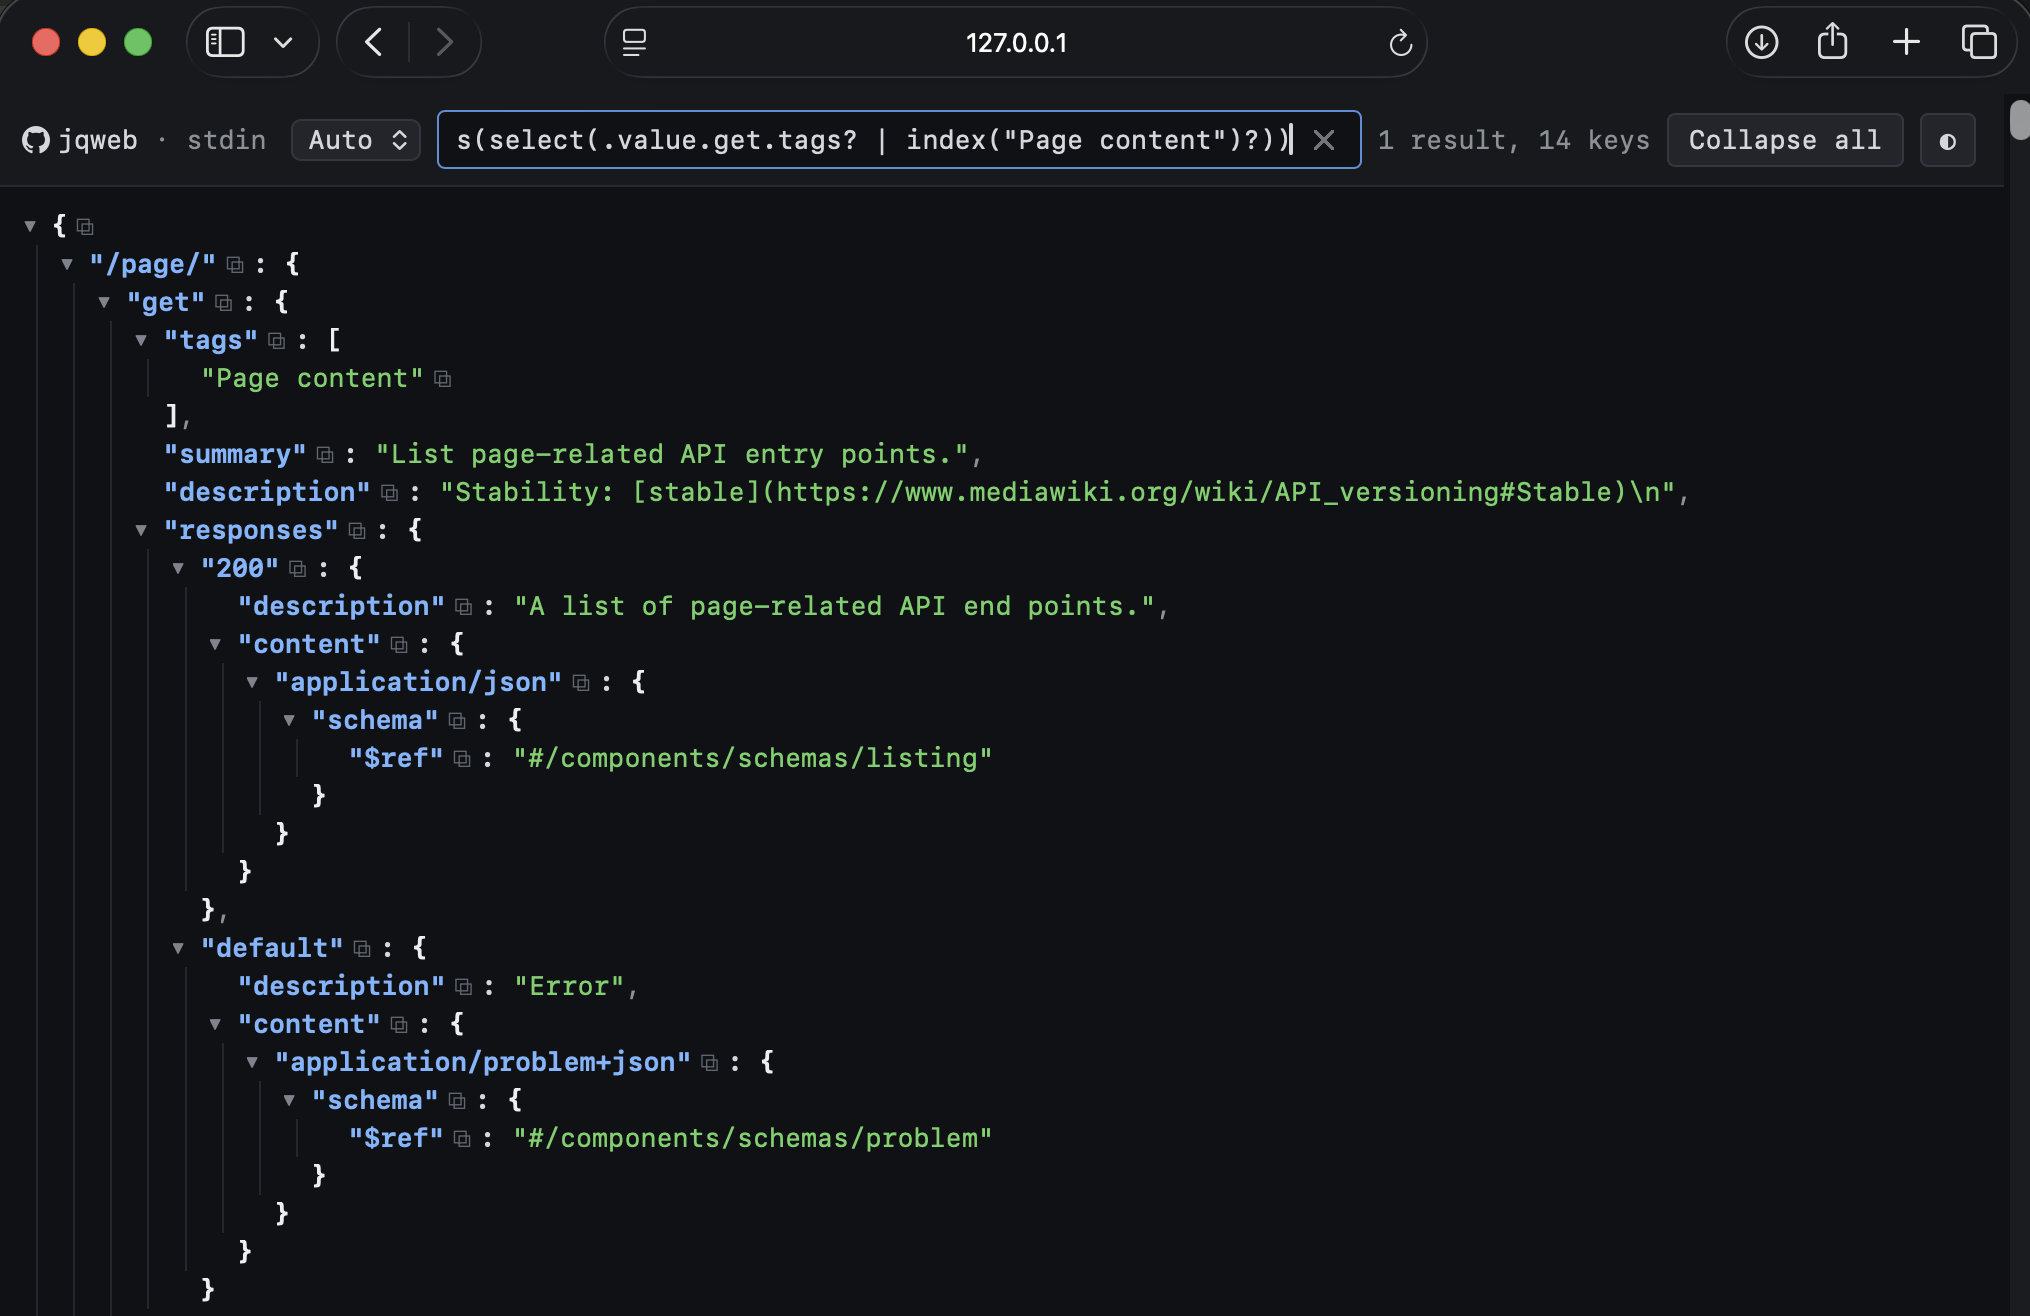
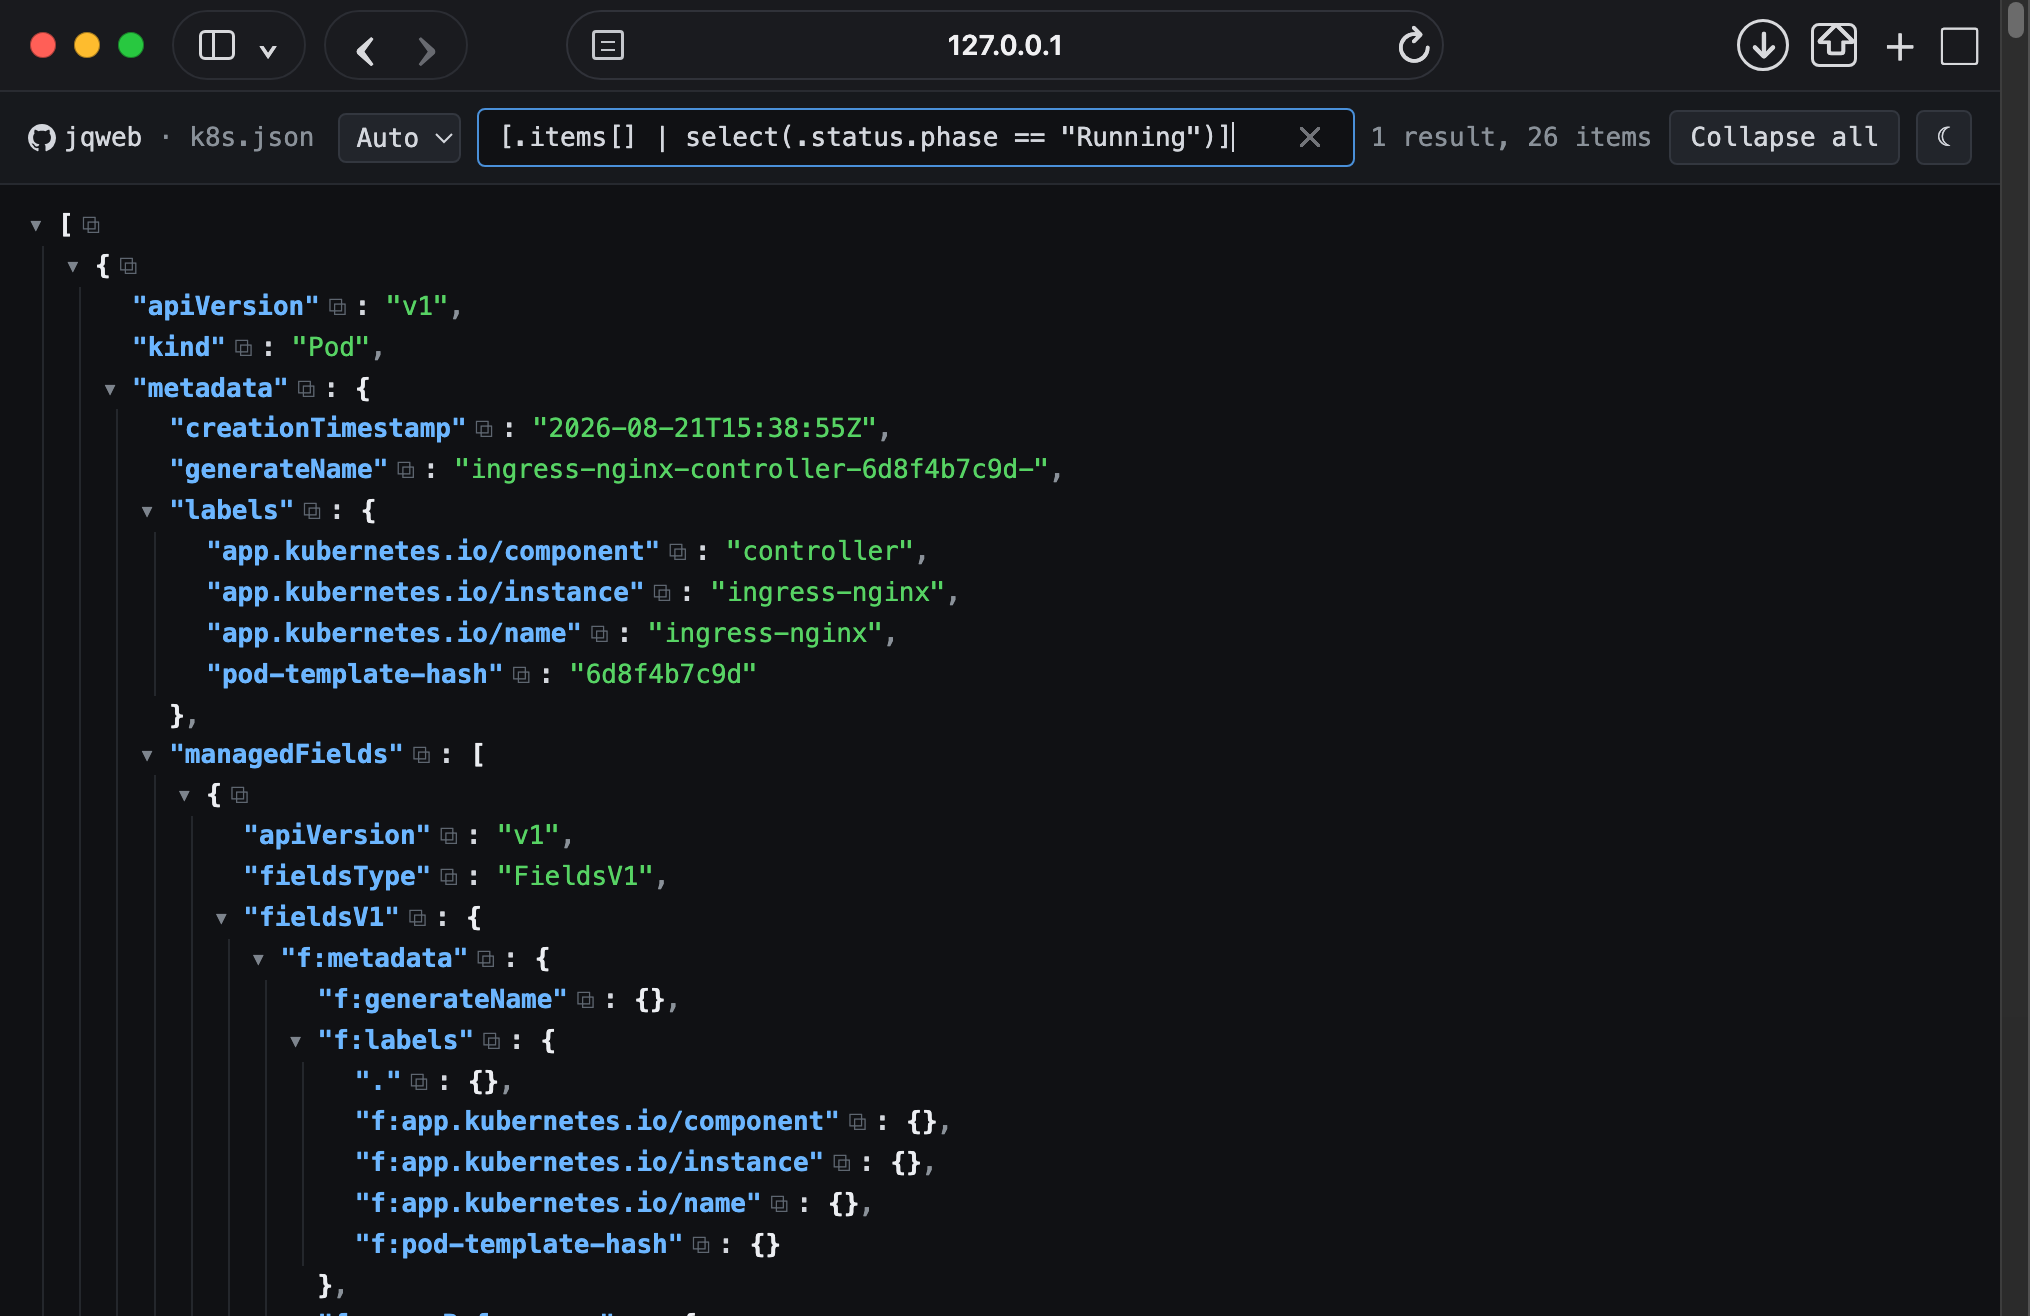
Automate the README screenshot

diff --git a/web/browser-test/capture-demo.js b/web/browser-test/capture-demo.js
@@ -1,0 +1,200 @@
+/* Builds a deterministic README screenshot from the committed example.
+
+     node web/browser-test/capture-demo.js
+     node web/browser-test/capture-demo.js /tmp/demo.png
+
+   The browser chrome is part of the page being captured. Headless browsers do
+   not include their own window chrome, and drawing this small frame keeps its
+   layout independent of local browser configuration. */
+
+'use strict';
+
+const { execFileSync, spawn } = require('node:child_process');
+const fs = require('node:fs');
+const os = require('node:os');
+const path = require('node:path');
+const { pathToFileURL } = require('node:url');
+
+const here = __dirname;
+const repo = path.resolve(here, '..', '..');
+const output = path.resolve(process.argv[2] || path.join(repo, 'demo.png'));
+const work = fs.mkdtempSync(path.join(os.tmpdir(), 'jqweb-demo-'));
+
+function findChrome() {
+  const named = process.env.CHROME || process.env.CHROME_PATH;
+  if (named) return named;
+  const candidates = process.platform === 'darwin'
+    ? ['/Applications/Google Chrome.app/Contents/MacOS/Google Chrome',
+       '/Applications/Chromium.app/Contents/MacOS/Chromium',
+       '/Applications/Google Chrome Canary.app/Contents/MacOS/Google Chrome Canary']
+    : ['/usr/bin/google-chrome', '/usr/bin/google-chrome-stable',
+       '/usr/bin/chromium', '/usr/bin/chromium-browser', '/snap/bin/chromium'];
+  const found = candidates.find((candidate) => fs.existsSync(candidate));
+  if (found) return found;
+  throw new Error('no Chrome found; set $CHROME to one');
+}
+
+function completePNG(file) {
+  try {
+    const size = fs.statSync(file).size;
+    if (size < 12) return false;
+    const fd = fs.openSync(file, 'r');
+    const tail = Buffer.alloc(12);
+    fs.readSync(fd, tail, 0, tail.length, size - tail.length);
+    fs.closeSync(fd);
+    return tail.toString('hex') === '0000000049454e44ae426082';
+  } catch (e) {
+    return false;
+  }
+}
+
+function capture(chrome, args) {
+  return new Promise((resolve, reject) => {
+    let done = false, complaints = '';
+    const child = spawn(chrome, args, { stdio: ['ignore', 'ignore', 'pipe'] });
+    child.stderr.on('data', (chunk) => { complaints += chunk; });
+
+    const finish = (err) => {
+      if (done) return;
+      done = true;
+      clearInterval(poll);
+      clearTimeout(timer);
+      child.kill('SIGKILL');
+      if (err) reject(err);
+      else resolve();
+    };
+
+    const poll = setInterval(() => { if (completePNG(output)) finish(null); }, 50);
+    const timer = setTimeout(() => finish(new Error(
+      'no screenshot within 45s' + (complaints ? '\n' + complaints.trim() : ''))), 45000);
+
+    child.on('error', finish);
+    child.on('exit', () => setTimeout(() => {
+      if (!completePNG(output)) finish(new Error('Chrome exited without a complete screenshot'));
+      else finish(null);
+    }, 50));
+  });
+}
+
+const frame = `
+<div class="demo-browser-bar" aria-hidden="true">
+  <div class="demo-browser-left">
+    <span class="demo-lights"><i></i><i></i><i></i></span>
+    <span class="demo-control demo-sidebar"><i></i><b>⌄</b></span>
+    <span class="demo-control demo-nav"><b>‹</b><b class="off">›</b></span>
+  </div>
+  <div class="demo-address">
+    <span class="demo-page"><i></i><i></i></span>
+    <strong>127.0.0.1</strong>
+    <b class="demo-reload">↻</b>
+  </div>
+  <div class="demo-browser-right">
+    <span class="demo-round">↓</span>
+    <span class="demo-share">⇧</span>
+    <span class="demo-plus">＋</span>
+    <span class="demo-tabs">▢</span>
+  </div>
+</div>`;
+
+const frameStyle = `
+<style>
+.demo-browser-bar {
+  --demo-bar-bg: #191a1e; --demo-bar-field: #1a1b1f; --demo-bar-rule: #292b31;
+  --demo-bar-control: #2b2d33; --demo-bar-address: #303239; --demo-bar-fg: #d8d9dc;
+  --demo-bar-strong: #f0f0f2; --demo-bar-off: #686a70;
+  --demo-bar-light: #c5c7cc; --demo-stop: #ff5f57; --demo-wait: #febc2e;
+  --demo-go: #28c840; --demo-shadow: rgba(0,0,0,.35);
+  height: 46px; display: grid; grid-template-columns: 248px minmax(300px, 1fr) 248px;
+  align-items: center; gap: 20px; padding: 0 10px 0 15px; overflow: hidden;
+  color: var(--demo-bar-fg); background: var(--demo-bar-bg); border-bottom: 1px solid var(--demo-bar-rule);
+  font: 15px/1 -apple-system, BlinkMacSystemFont, "Segoe UI", sans-serif;
+}
+.demo-browser-left, .demo-browser-right { display: flex; align-items: center; gap: 9px; }
+.demo-browser-right { justify-content: flex-end; font-size: 22px; }
+.demo-lights { display: flex; gap: 9px; margin-right: 5px; }
+.demo-lights i { width: 13px; height: 13px; border-radius: 50%; background: var(--demo-stop); box-shadow: inset 0 0 0 .5px var(--demo-shadow); }
+.demo-lights i:nth-child(2) { background: var(--demo-wait); }
+.demo-lights i:nth-child(3) { background: var(--demo-go); }
+.demo-control { height: 35px; display: flex; align-items: center; justify-content: center; border: 1px solid var(--demo-bar-control); border-radius: 18px; background: var(--demo-bar-field); }
+.demo-sidebar { width: 67px; gap: 11px; }
+.demo-sidebar i { width: 18px; height: 15px; border: 1.7px solid currentColor; border-radius: 3px; position: relative; }
+.demo-sidebar i::before { content: ""; position: absolute; top: 0; bottom: 0; left: 5px; border-left: 1.5px solid currentColor; }
+.demo-sidebar b { font-size: 18px; font-weight: 500; transform: translateY(-2px); }
+.demo-nav { width: 72px; gap: 16px; }
+.demo-nav b { font: 35px/.5 Georgia, serif; font-weight: 400; }
+.demo-nav .off { color: var(--demo-bar-off); }
+.demo-address { height: 35px; min-width: 0; display: grid; grid-template-columns: 28px 1fr 28px; align-items: center; border: 1px solid var(--demo-bar-address); border-radius: 18px; background: var(--demo-bar-field); text-align: center; }
+.demo-address strong { font-weight: 600; font-size: 14px; color: var(--demo-bar-strong); }
+.demo-page { width: 16px; height: 15px; margin-left: 12px; border: 1.5px solid var(--demo-bar-light); border-radius: 2px; position: relative; }
+.demo-page i { position: absolute; left: 3px; right: 3px; border-top: 1.3px solid var(--demo-bar-light); }
+.demo-page i:first-child { top: 4px; }
+.demo-page i:last-child { top: 8px; }
+.demo-reload { font-size: 22px; font-weight: 400; text-align: center; }
+.demo-round { width: 26px; height: 26px; border: 1.5px solid currentColor; border-radius: 50%; display: grid; place-items: center; font-size: 18px; font-weight: 600; }
+.demo-share { width: 23px; height: 22px; border: 1.5px solid currentColor; border-radius: 4px; display: grid; place-items: start center; font-size: 22px; line-height: 12px; margin: 0 2px; }
+.demo-plus, .demo-tabs { font-weight: 300; }
+header { top: 0; }
+</style>`;
+
+const query = '[.items[] | select(.status.phase == "Running")]';
+const drive = `
+<script>
+(function () {
+  var q = document.getElementById('q');
+  q.value = ${JSON.stringify(query)};
+  q.dispatchEvent(new Event('input', { bubbles: true }));
+  q.focus();
+  q.setSelectionRange(q.value.length, q.value.length);
+}());
+</script>`;
+
+async function main() {
+  try {
+    const binary = path.join(work, 'jqweb');
+    const page = path.join(work, 'demo.html');
+    execFileSync('go', ['build', '-o', binary, '.'], { cwd: repo, stdio: 'inherit' });
+    execFileSync(binary, ['--theme', 'dark', '-o', page, path.join(repo, 'docs', 'k8s.json')],
+      { cwd: repo, stdio: 'inherit' });
+
+    let html = fs.readFileSync(page, 'utf8');
+    html = html.replace('</head>', frameStyle + '\n</head>');
+    html = html.replace('<body>', '<body>' + frame);
+    html = html.replace('</body>', drive + '\n</body>');
+    fs.writeFileSync(page, html);
+
+    fs.mkdirSync(path.dirname(output), { recursive: true });
+    fs.rmSync(output, { force: true });
+    await capture(findChrome(), [
+      '--headless=new',
+      '--no-sandbox',
+      '--disable-gpu',
+      '--disable-dev-shm-usage',
+      '--no-first-run',
+      '--no-default-browser-check',
+      '--disable-background-networking',
+      '--disable-component-update',
+      '--disable-default-apps',
+      '--disable-extensions',
+      '--disable-sync',
+      '--disable-client-side-phishing-detection',
+      '--metrics-recording-only',
+      '--force-color-profile=srgb',
+      '--force-device-scale-factor=2',
+      '--window-size=1015,658',
+      '--virtual-time-budget=5000',
+      '--run-all-compositor-stages-before-draw',
+      '--user-data-dir=' + path.join(work, 'profile'),
+      '--screenshot=' + output,
+      pathToFileURL(page).href
+    ]);
+
+    console.log(output);
+  } finally {
+    fs.rmSync(work, { recursive: true, force: true });
+  }
+}
+
+main().catch((e) => {
+  console.error(e.message || e);
+  process.exitCode = 1;
+});

diff --git a/CLAUDE.md b/CLAUDE.md
@@ -191,6 +191,11 @@ rendered, so regenerate it after any change under `web/`, with the command in
 and the `curl` in `README.md` fetches it from there. Examples that need a
 document use this one.
 
+**`demo.png` is generated and committed.** Regenerate it for every new release,
+after the example page is current, with `node web/browser-test/capture-demo.js`.
+The script drives `docs/k8s.json` into the screenshot query and draws the browser
+frame; do not replace it with a hand capture.
+
 **Other sample documents are gitignored** — `simple.json`, `large.json`,
 `wiki-rest.json`. They are scratch fixtures. A wide `git add` has swept one in
 before.

diff --git a/CONTRIBUTING.md b/CONTRIBUTING.md
@@ -143,6 +143,12 @@ it at https://zafnz.github.io/jqweb/k8s.json, which is what the `curl` in
 `README.md` fetches, so changing the file changes both the example page and
 the first command a reader runs.
 
+Regenerate the README screenshot for every new release, after the example page
+is current. The script uses the same document, runs the example query, draws a
+browser frame around the page, and writes `demo.png`:
+
+    node web/browser-test/capture-demo.js
+
 ## Bugs and wanted features
 
 Both go in the issue tracker at https://github.com/zafnz/jqweb/issues. File one

diff --git a/README.md b/README.md
@@ -34,9 +34,9 @@ $ curl -s https://zafnz.github.io/jqweb/k8s.json | jqweb
 jqweb: serving on http://127.0.0.1:52748/ (Ctrl-C to stop)
 ```
 
-<img src="demo.png" alt="jqweb rendering the Wikipedia REST API spec" width="580">
+<img src="demo.png" alt="jqweb filtering running pods in a Kubernetes resource list" width="580">
 
-*Filtering the Wikipedia REST API specification by a value.*
+*Filtering running Kubernetes pods with a jq-style query.*
 
 Use `-O` (or `--open`) to open the page automatically in your default web
 browser:
